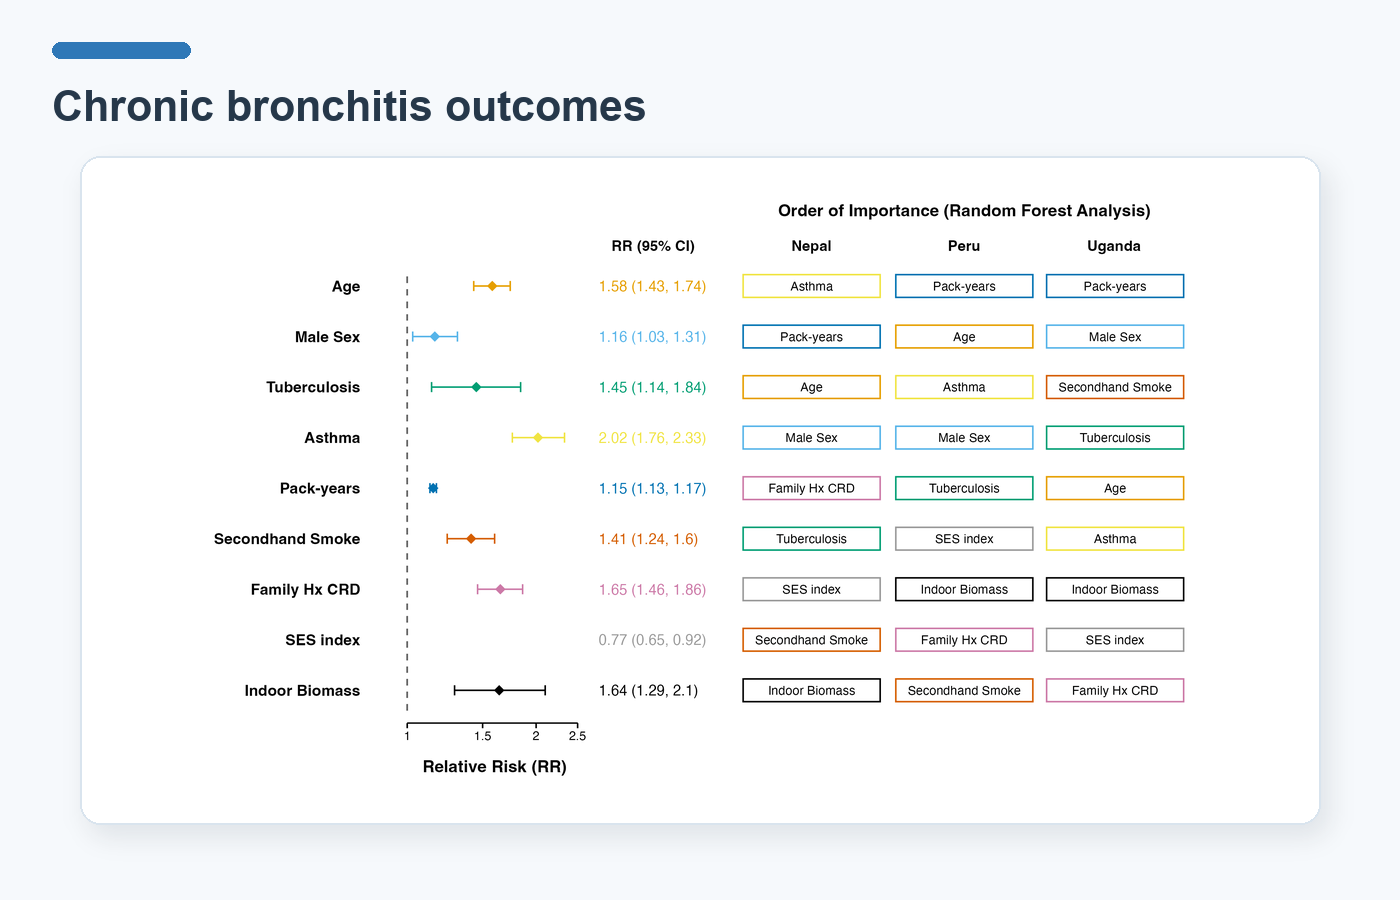
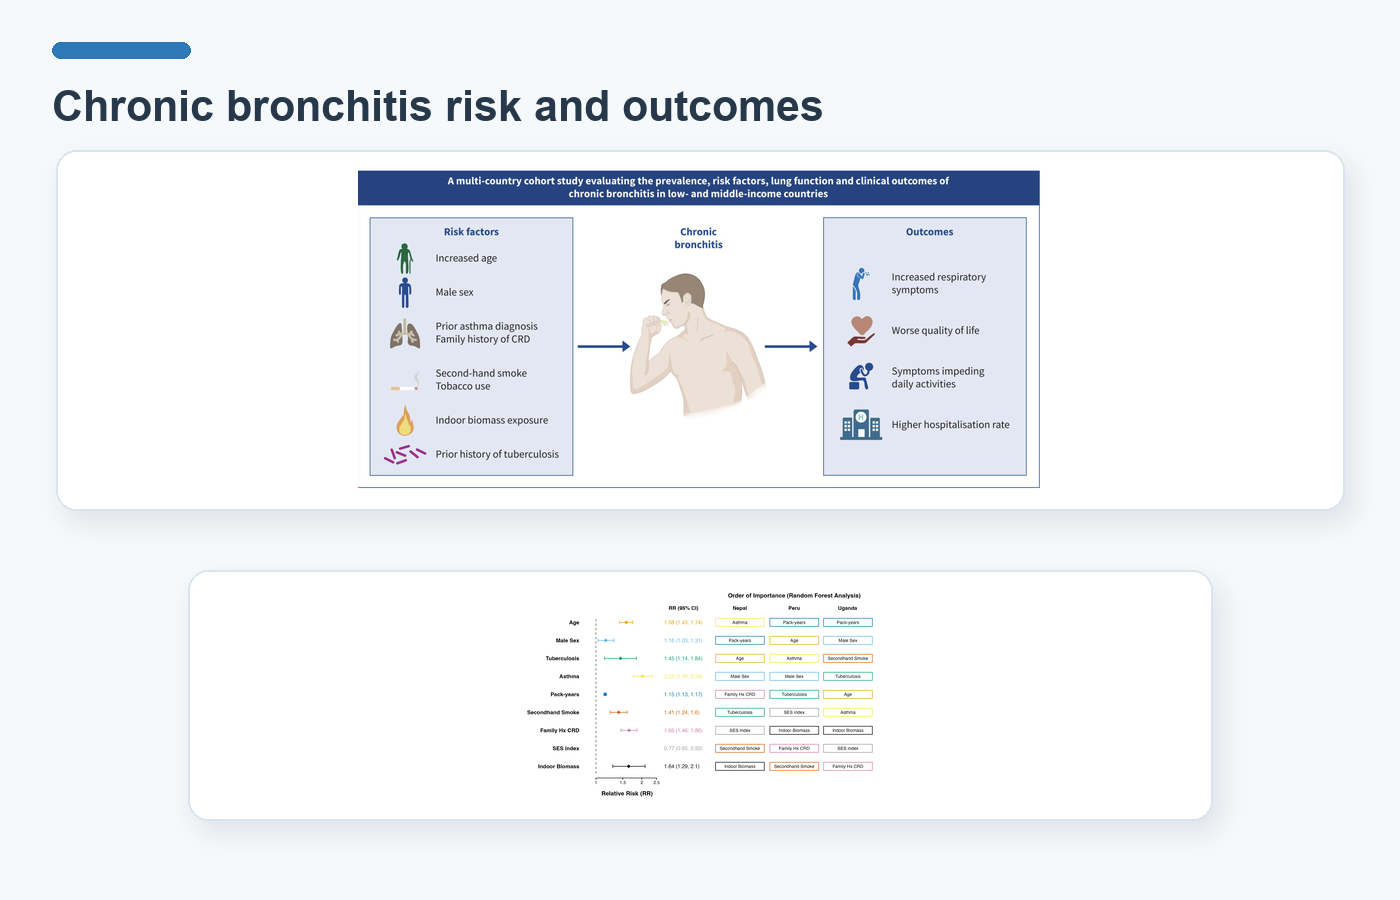
Update publication keywords and ERJ visual

Changed region(s): [[0.0614, 0.0933, 0.9521, 0.9333], [0.1843, 0.7467, 0.2457, 0.7778]]

diff --git a/_pages/about.md b/_pages/about.md
@@ -50,8 +50,6 @@ My publication profile is on <a href="https://scholar.google.com/citations?user=
 
 ## Publications
 
-<p class="auto-note">This section merges Google Scholar metadata with a curated display layer for DOI links, journal names, research summaries, and representative visuals.</p>
-
 <div id="scholar-publications" class="pub-grid" aria-live="polite">
   <p class="auto-note">Loading publications from Google Scholar...</p>
 </div>
